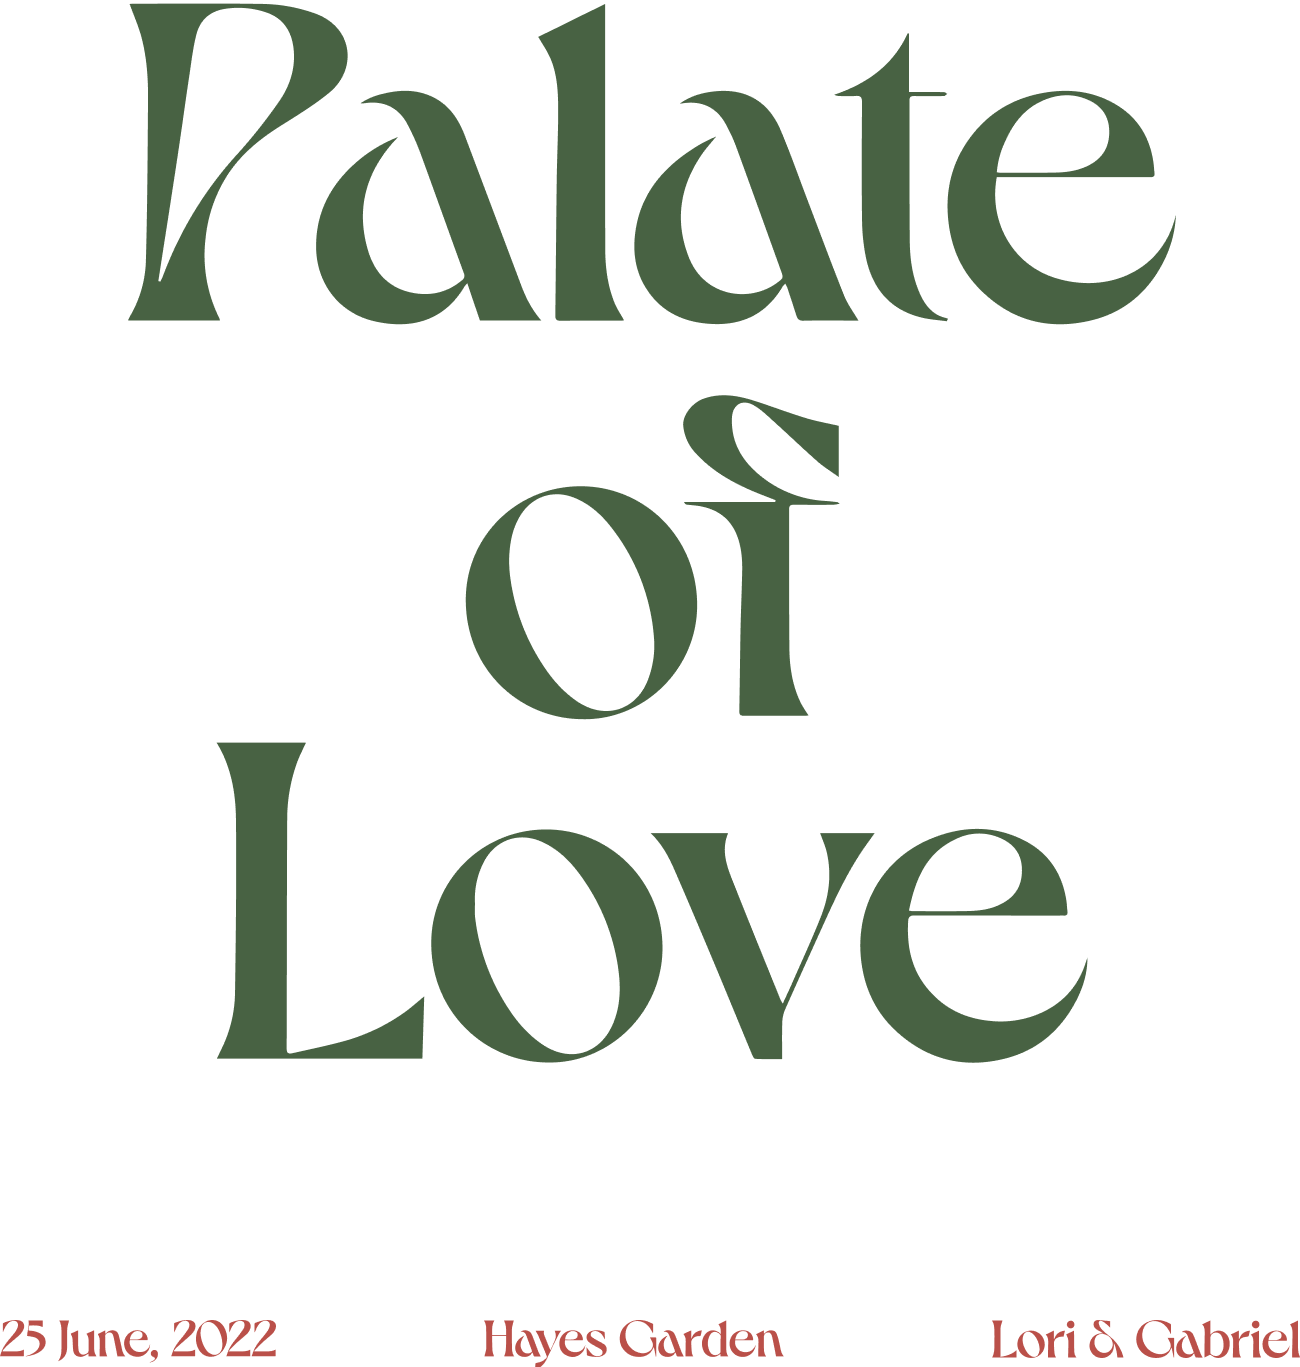
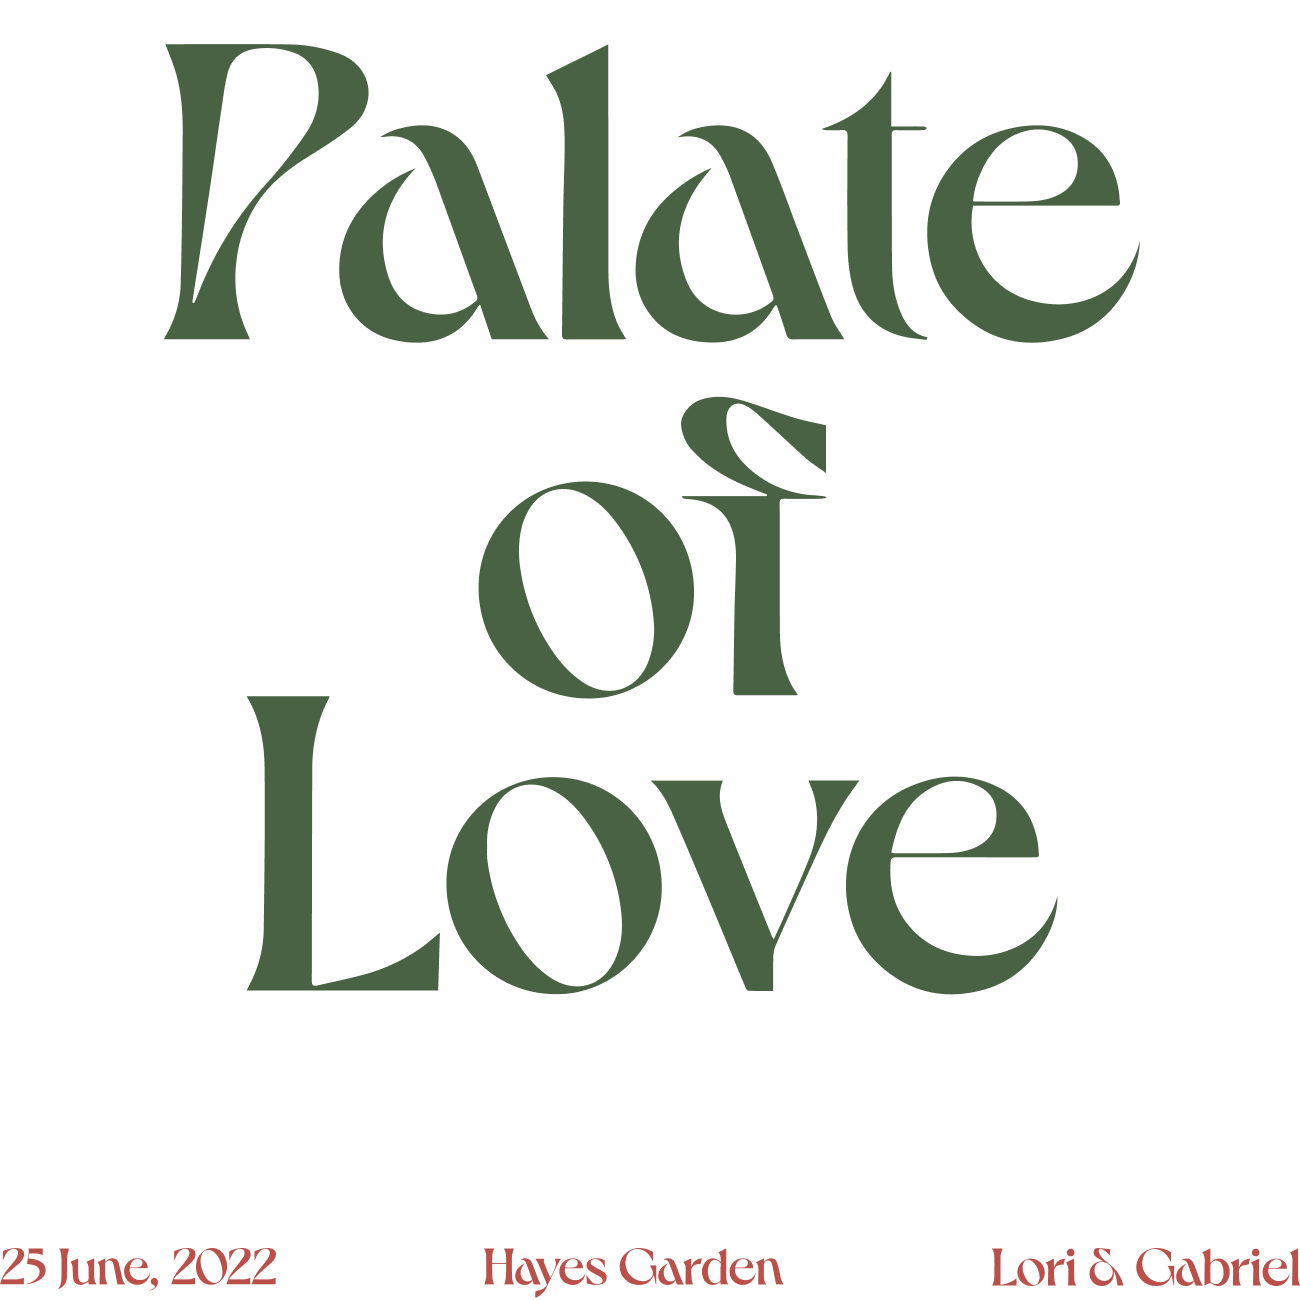
fix from client

diff --git a/index.html b/index.html
@@ -143,7 +143,7 @@
              data-navbar="navbar-light">
         <div class="row">
             <div class="col-md-6 remove-padding-side home-background1">
-                <img style="width:80%; margin-right: auto; margin-left: auto; padding-top: 40px; padding-bottom: 20px"
+                <img style="width:80%; margin-right: auto; margin-left: auto; padding-top: 70px; padding-bottom: 20px"
                      src="html/assets/images/img_main_txt.png">
             </div>
             <div class="col-md-6 remove-padding-side home-background2 component-center-vertical">
